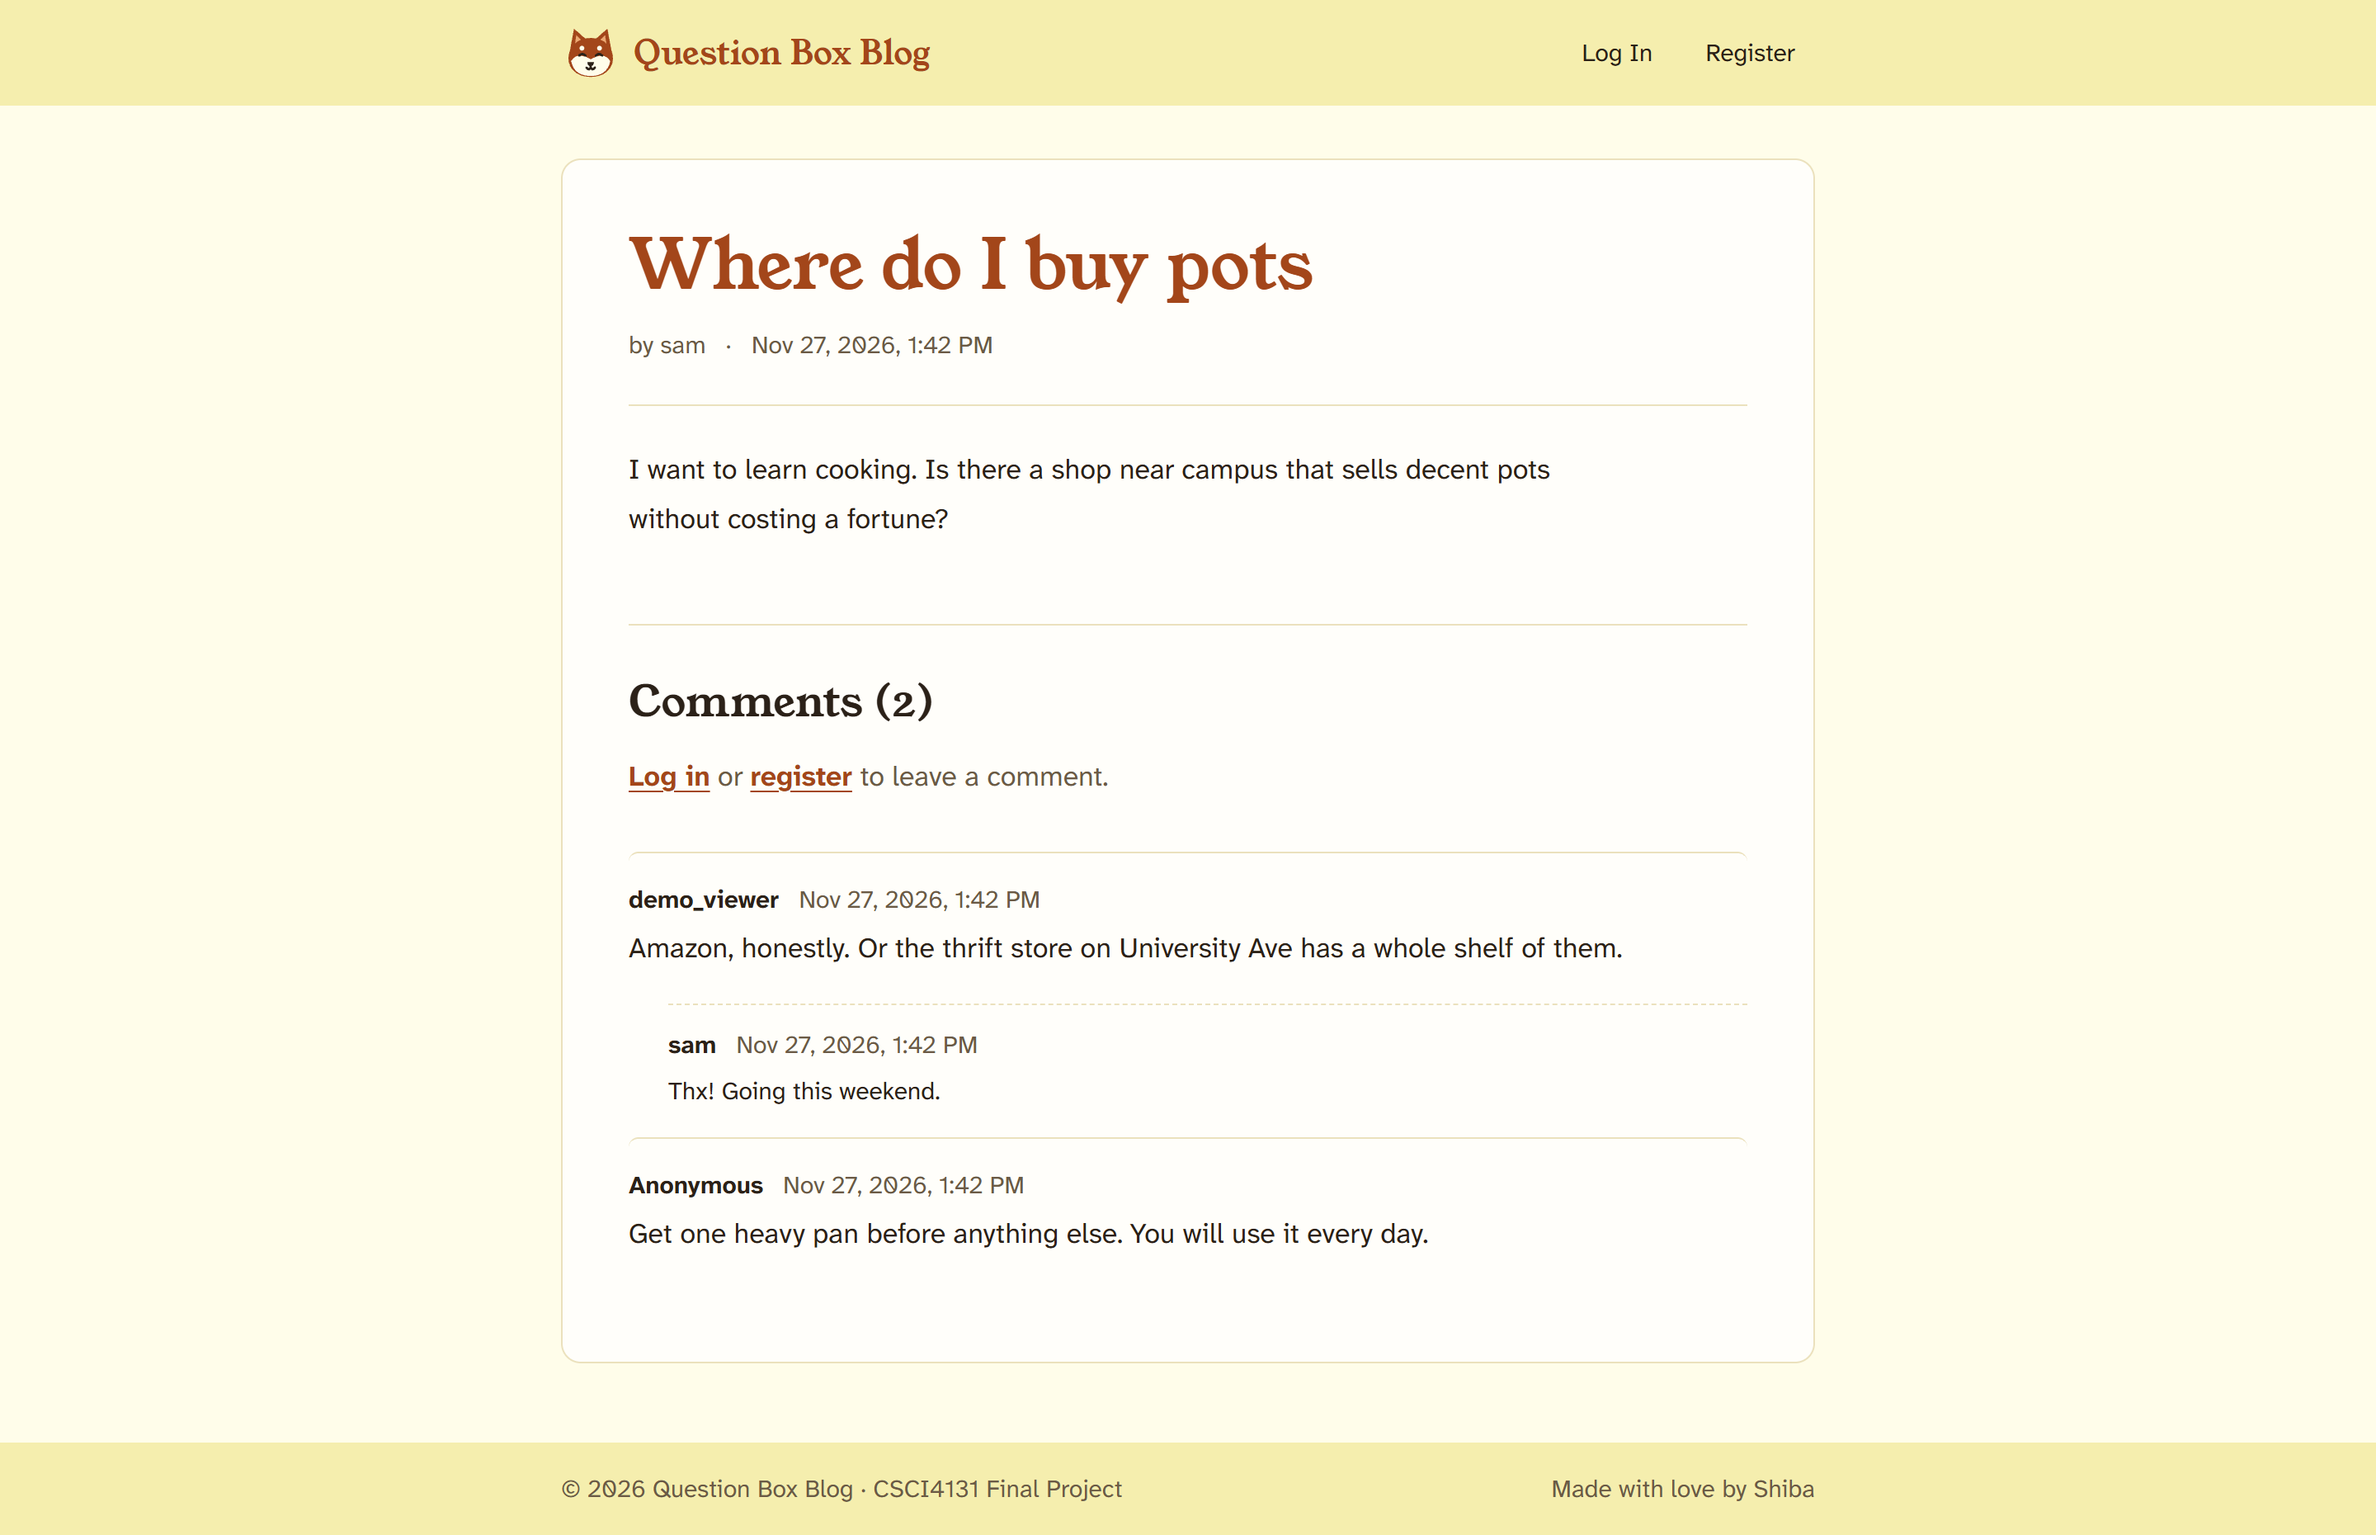
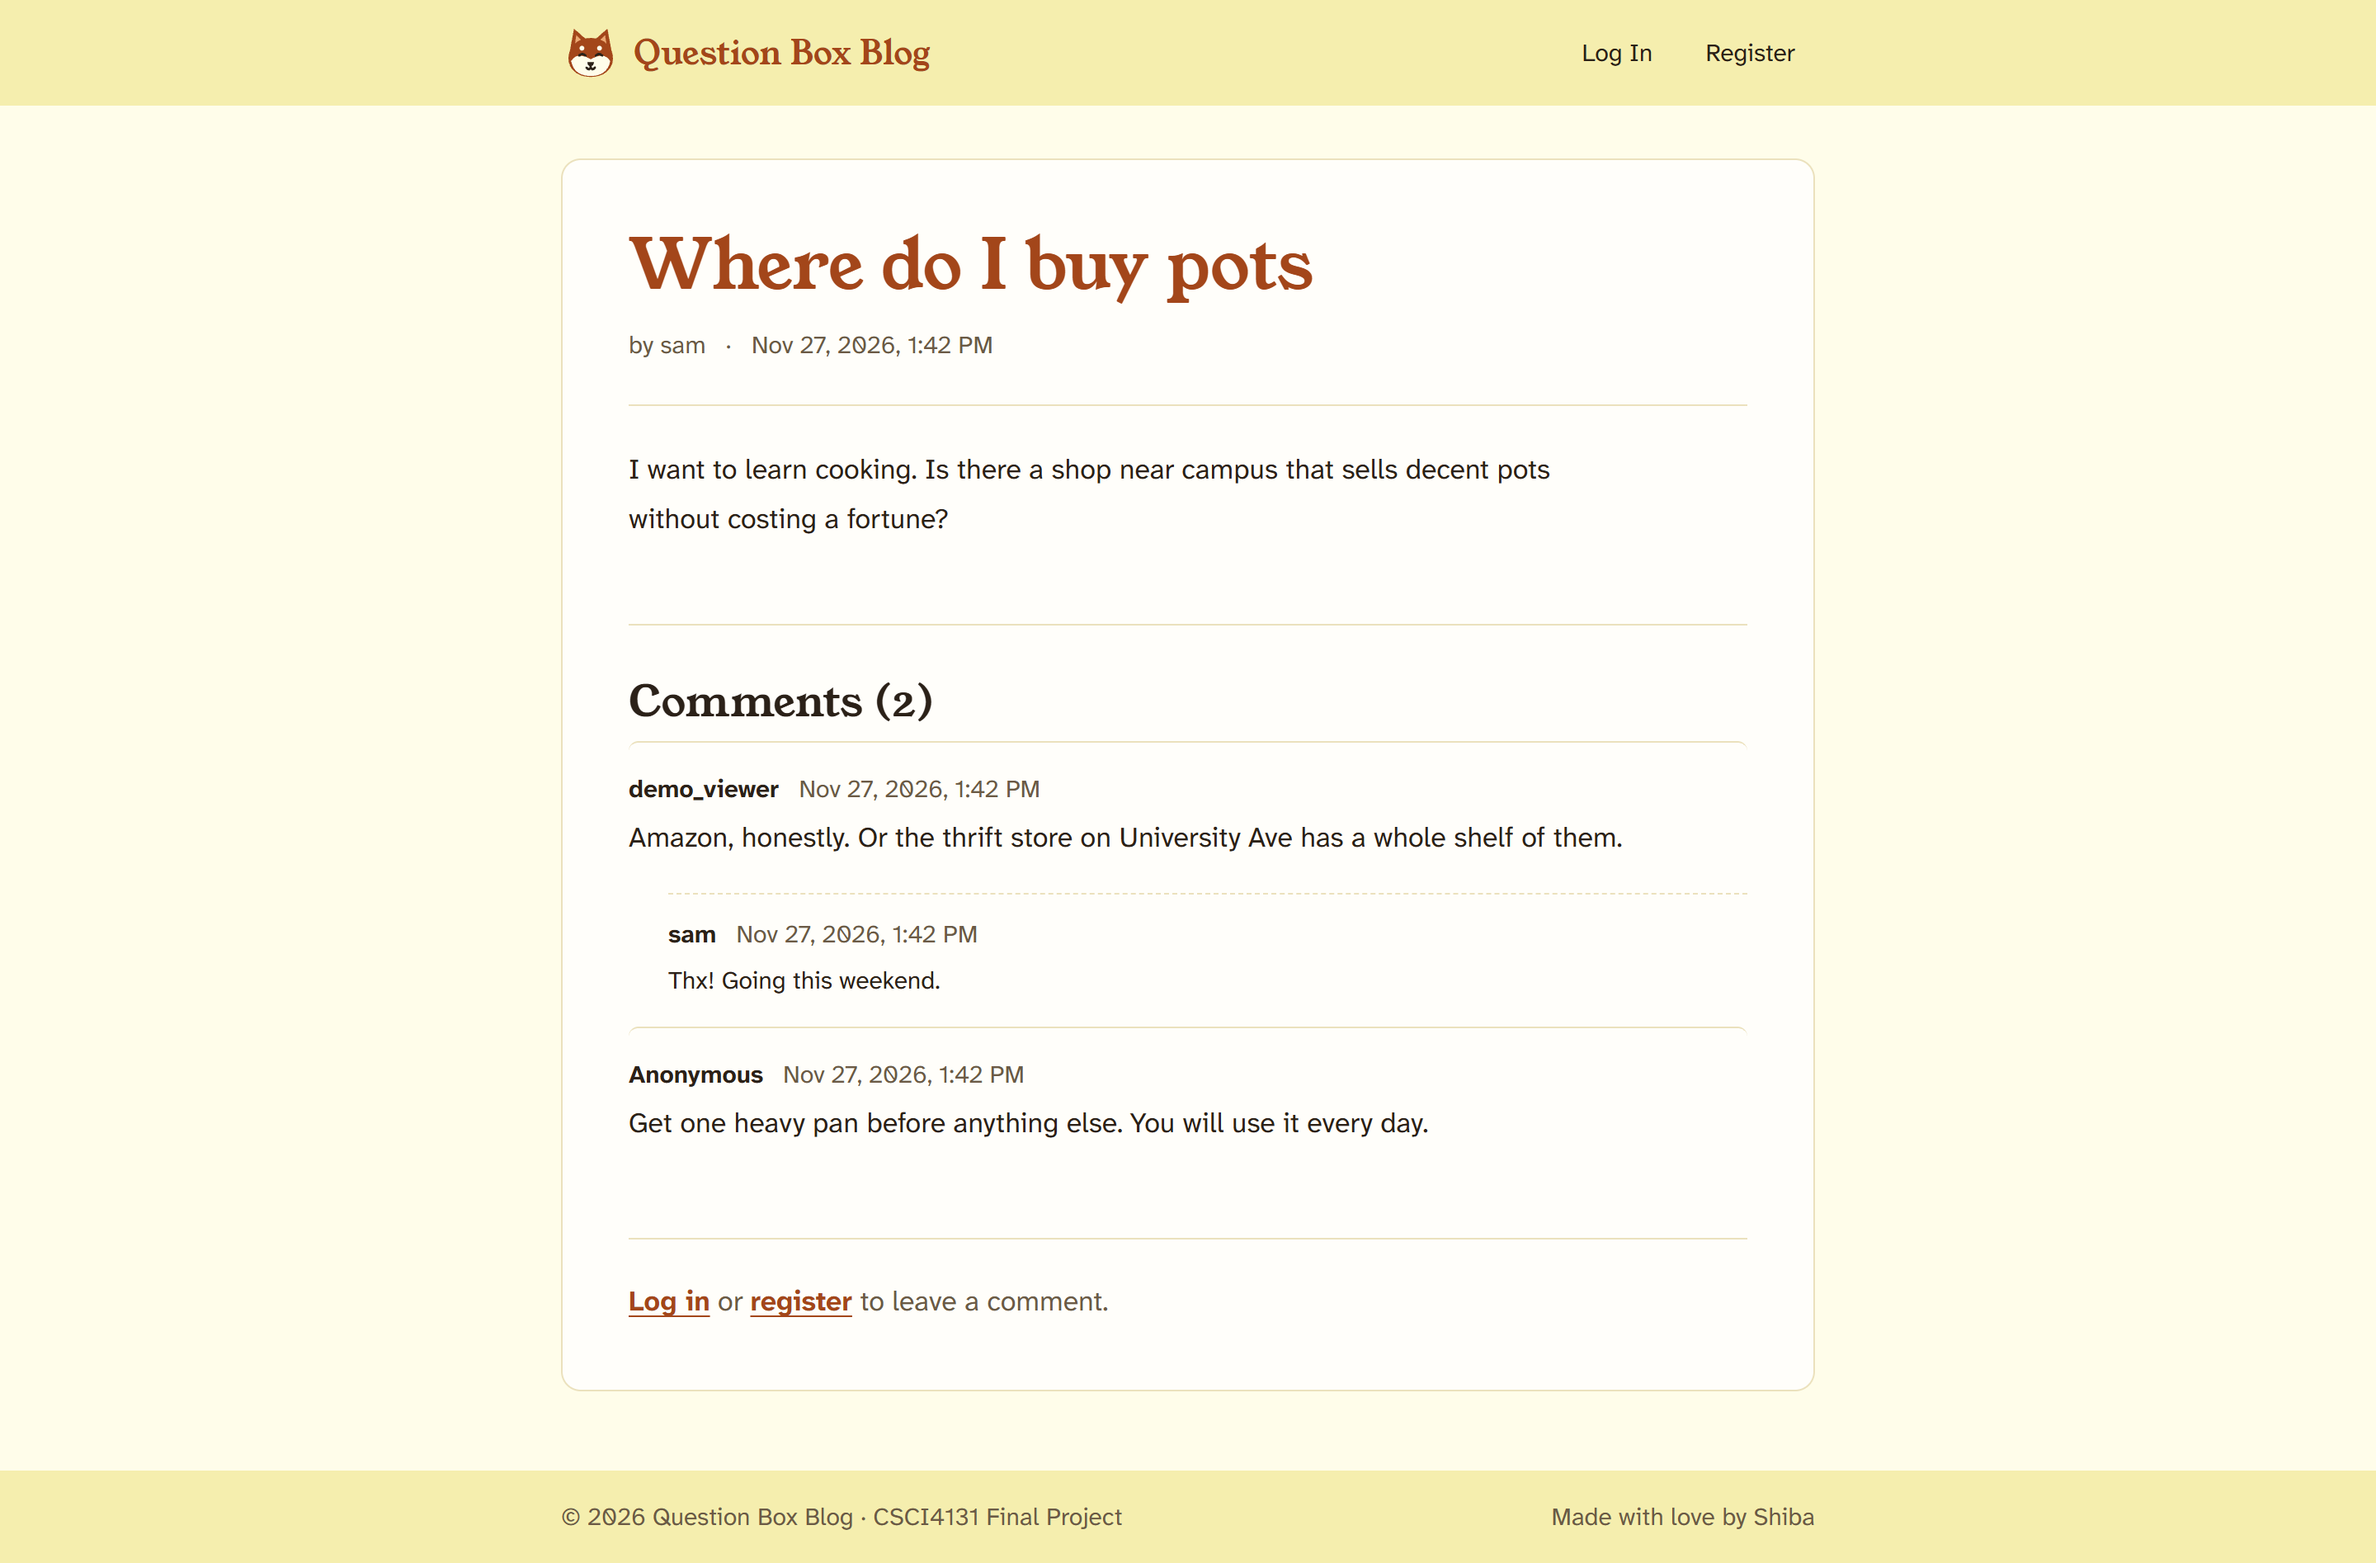
style: Put the comment thread before the comment form
From the re-run critique (28/40), P2 "post page puts writing before
reading", via /impeccable layout:

- The question box page now reads: Comments (N), the comments, then
  "Leave a Comment" (or the guest's log-in prompt) after a hairline.
  A new comment lands just above the form, where the writer already is.
- A "Write a comment" link next to the heading jumps to the form and
  puts the cursor in it, so long threads cost no scrolling.
- DESIGN.md thread order and the post detail screenshots updated.

diff --git a/resources/css/main.css b/resources/css/main.css
@@ -630,8 +630,19 @@ a:hover {
   border-top: 1px solid var(--color-border);
 }
 
-.comments-section h2 {
-  margin-bottom: var(--space-4);
+/* Heading row: the count, and a jump to the form at the end of the thread. */
+.comments-header {
+  display: flex;
+  flex-wrap: wrap;
+  align-items: baseline;
+  justify-content: space-between;
+  gap: var(--space-2) var(--space-4);
+  margin-bottom: var(--space-2);
+}
+
+.comments-jump {
+  font-size: var(--text-sm);
+  font-weight: var(--weight-bold);
 }
 
 #comments-heading:focus {
@@ -643,8 +654,21 @@ a:hover {
   outline-offset: 2px;
 }
 
-.comment-form {
-  margin-bottom: var(--space-6);
+/* Joining in comes after reading: the form (or the guest's log-in prompt)
+ * closes the thread, set apart by space and a hairline. */
+.comment-form,
+.login-prompt {
+  margin-top: var(--space-6);
+  padding-top: var(--space-5);
+  border-top: 1px solid var(--color-border);
+}
+
+#leave-comment {
+  scroll-margin-top: var(--space-6);
+}
+
+#leave-comment:focus {
+  outline: none;
 }
 
 .comment-form h3 {
@@ -652,7 +676,6 @@ a:hover {
 }
 
 .login-prompt {
-  margin-bottom: var(--space-6);
   color: var(--color-ink-muted);
 }
 

diff --git a/resources/js/main.js b/resources/js/main.js
@@ -402,6 +402,21 @@ document.addEventListener('DOMContentLoaded', () => {
         form.setAttribute('aria-busy', busy ? 'true' : 'false');
     }
 
+    // "Write a comment" jumps to the form at the end of the thread and puts
+    // the cursor in it.
+    const jump = section.querySelector('.comments-jump');
+    const commentBox = document.getElementById('comment-content');
+    if (jump && commentBox) {
+        jump.addEventListener('click', (e) => {
+            e.preventDefault();
+            commentBox.scrollIntoView({
+                block : 'center',
+                behavior : prefersReducedMotion ? 'auto' : 'smooth'
+            });
+            commentBox.focus({preventScroll : true});
+        });
+    }
+
     // Restore drafts left behind by an expired session or a reload.
     const commentForm = document.getElementById('comment-form');
     if (commentForm) {

diff --git a/DESIGN.md b/DESIGN.md
@@ -262,6 +262,7 @@ Three roles that are distinct in fill as well as hue, so they can't be confused 
 ### Cards / Containers
 - **Content surface:** Paper, with a 1px hairline border, 10px corners and 30px padding. It is the only container.
 - **Question boxes in the list:** not cards. Each is an `article` row divided by hairlines; the title link's `::after` covers the whole row, so the row is one link target. Keyboard focus outlines the whole row. The preview is cut on a word boundary (200-character budget) and clamped to three lines.
+- **Comment thread order:** the "Comments (N)" heading (with a "Write a comment" jump link when there are comments), then the comments, then the "Leave a Comment" form, or the guest's log-in prompt, closing the thread after a hairline and `--space-6`. Reading comes before writing; a new comment lands just above the form.
 - **Comments and replies:** rows divided by hairlines. Replies are indented 24px under their comment with dashed dividers. A just-posted comment or reply gets a short Sun Wash tint.
 
 ### Inputs / Fields
